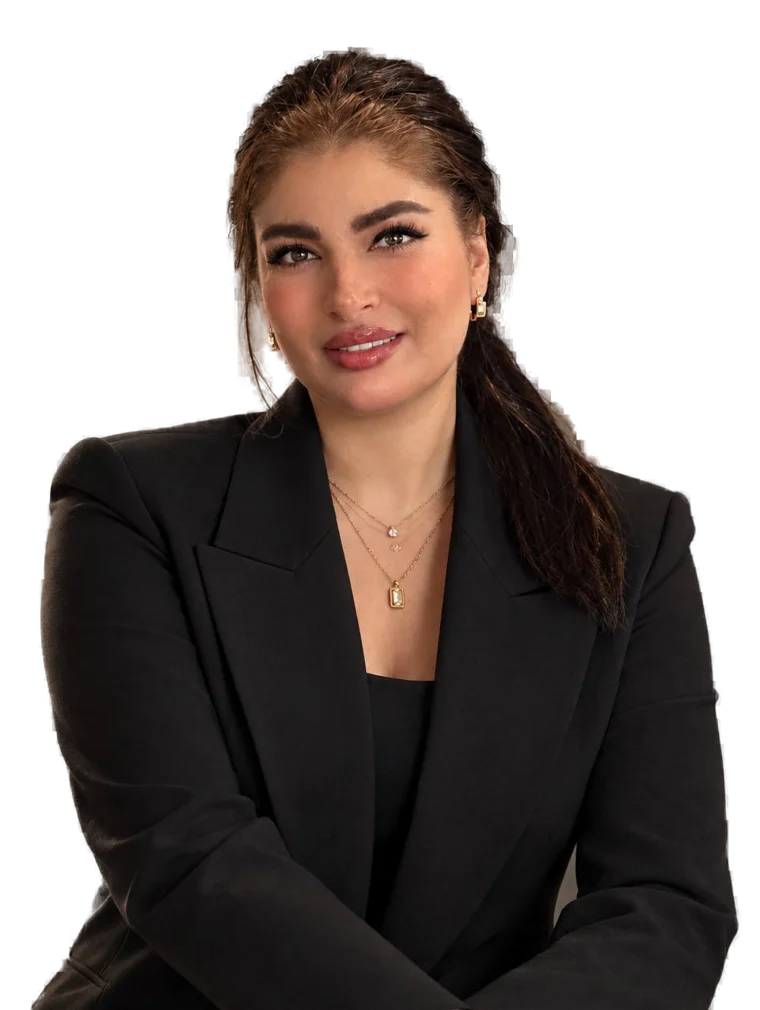
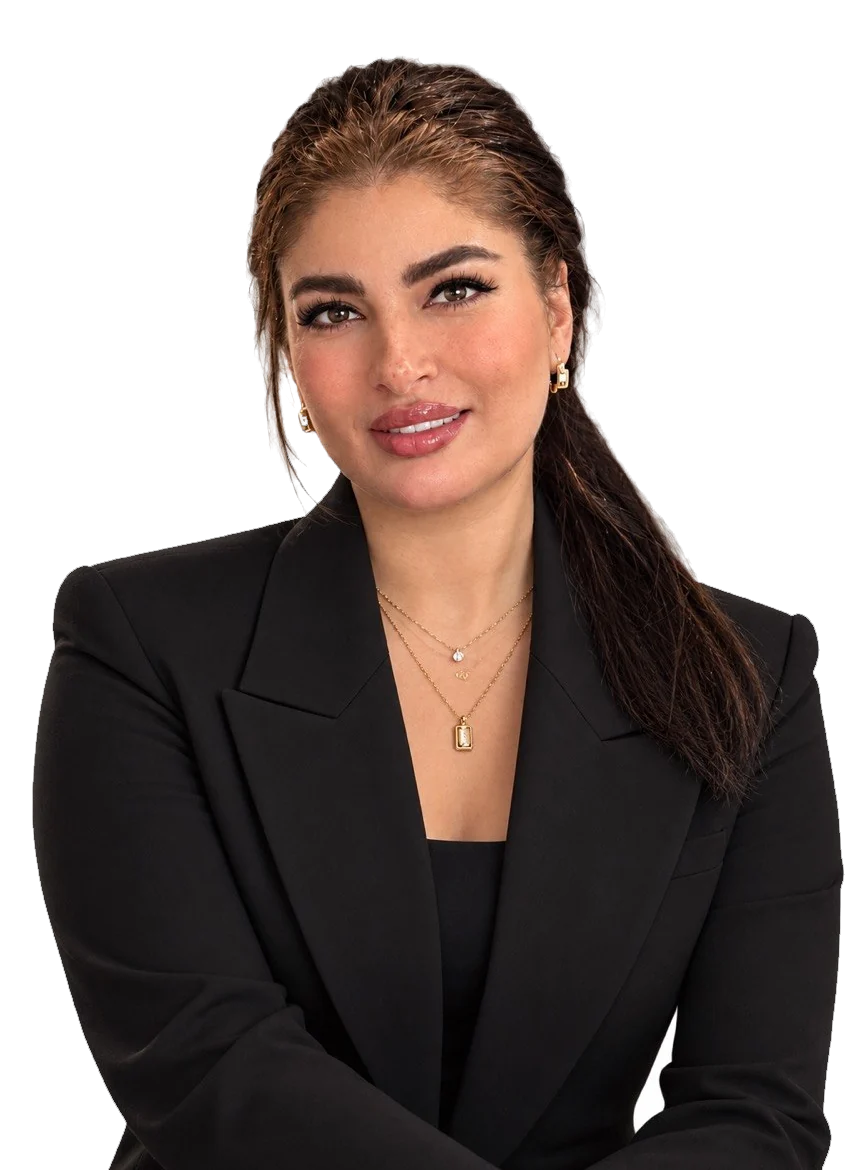
Replace the hero portrait with the clinic's new photo
Cut out from its white background with a tightened matte so the hair
has no light fringe; framing matches the existing hero arch.

Claude-Session: https://claude.ai/code/session_01GwB6yYd7j7s3p99rZjnAZh

diff --git a/TODO-content.md b/TODO-content.md
@@ -5,12 +5,12 @@ Every `[؟]` placeholder on the site must be listed here. Nothing ships while th
 ## Done
 - [x] About copy (no university, at the doctor's request) and medical council number 169473
 - [x] Final copy for all service pages, journal articles, privacy and booking policy (doctor's full copywriting approval)
+- [x] Hero portrait: new photo from the clinic, cut out cleanly (no fringe on the hair)
 - [x] Before/after case photos (3 cases, cropped to the mouth at matched scale in `public/images/cases/`)
 
 ## Still needed
 - [ ] Confirm the treatment named on each before/after case («کامپوزیت ونیر», «لمینت سرامیکی», «طراحی لبخند»); optionally tooth and session counts (`content/cases.ts`; the line is hidden until set)
 - [ ] Confirm the booking-policy defaults (24 h notice, 15 min lateness, no-show rule)
-- [ ] Hand-refined portrait cutout (the current one has a grey fringe on the hair)
 - [ ] Exact map pins for Neshan, Balad and Google Maps (the «مسیریابی» link currently searches the address), and coordinates for structured data
 - [ ] Instagram URL (the footer link is hidden until set in `lib/site.ts`)
 - [ ] Domain and Iranian hosting account
